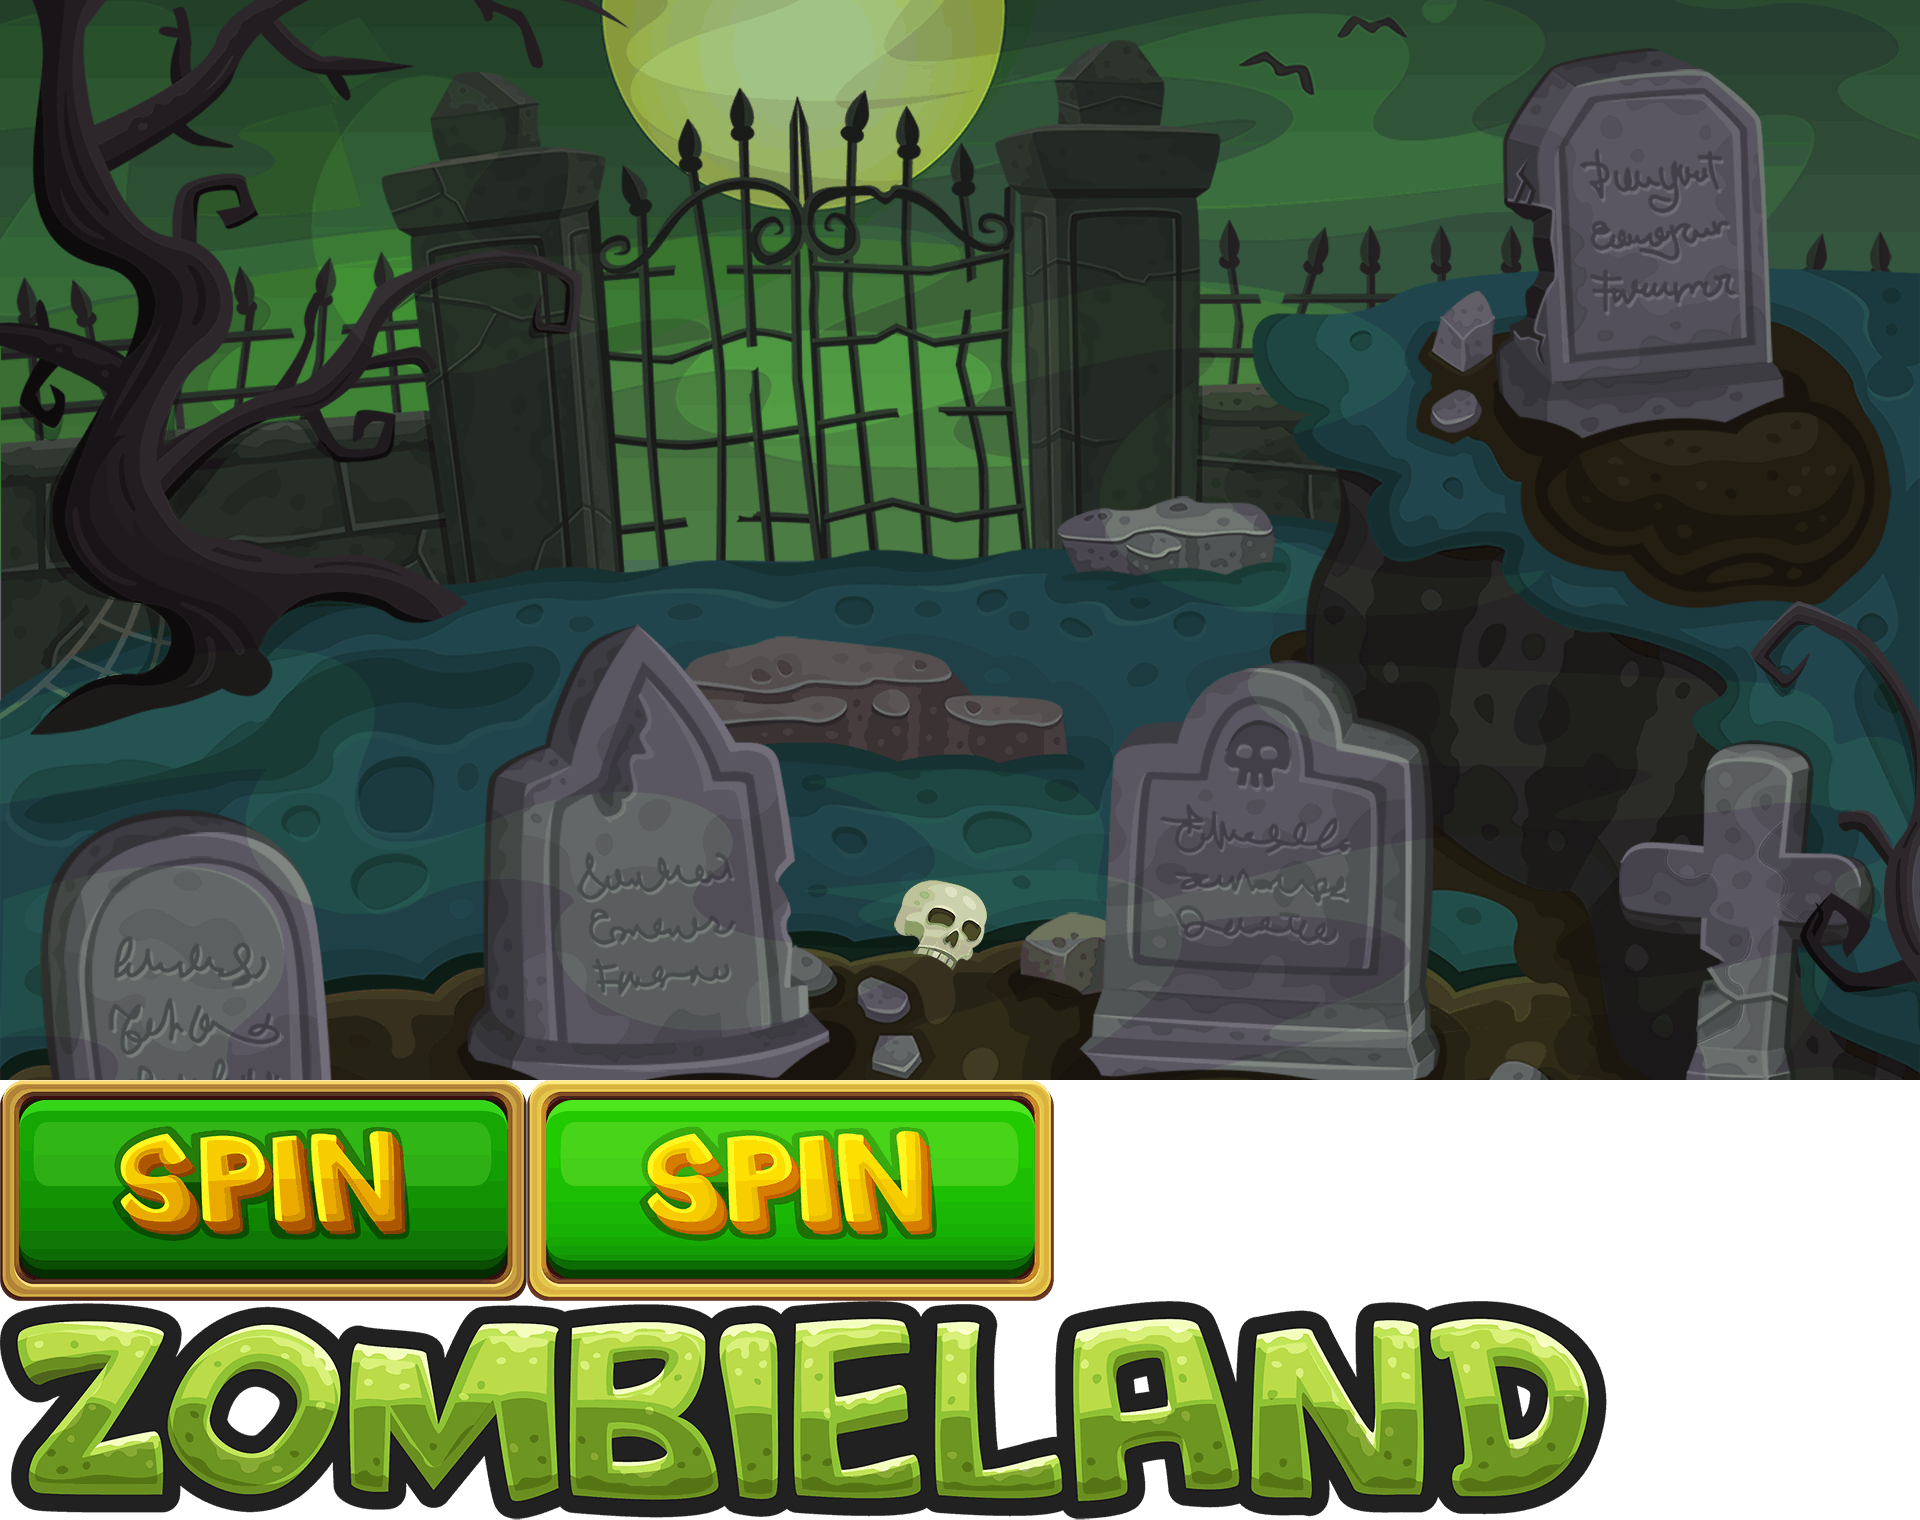
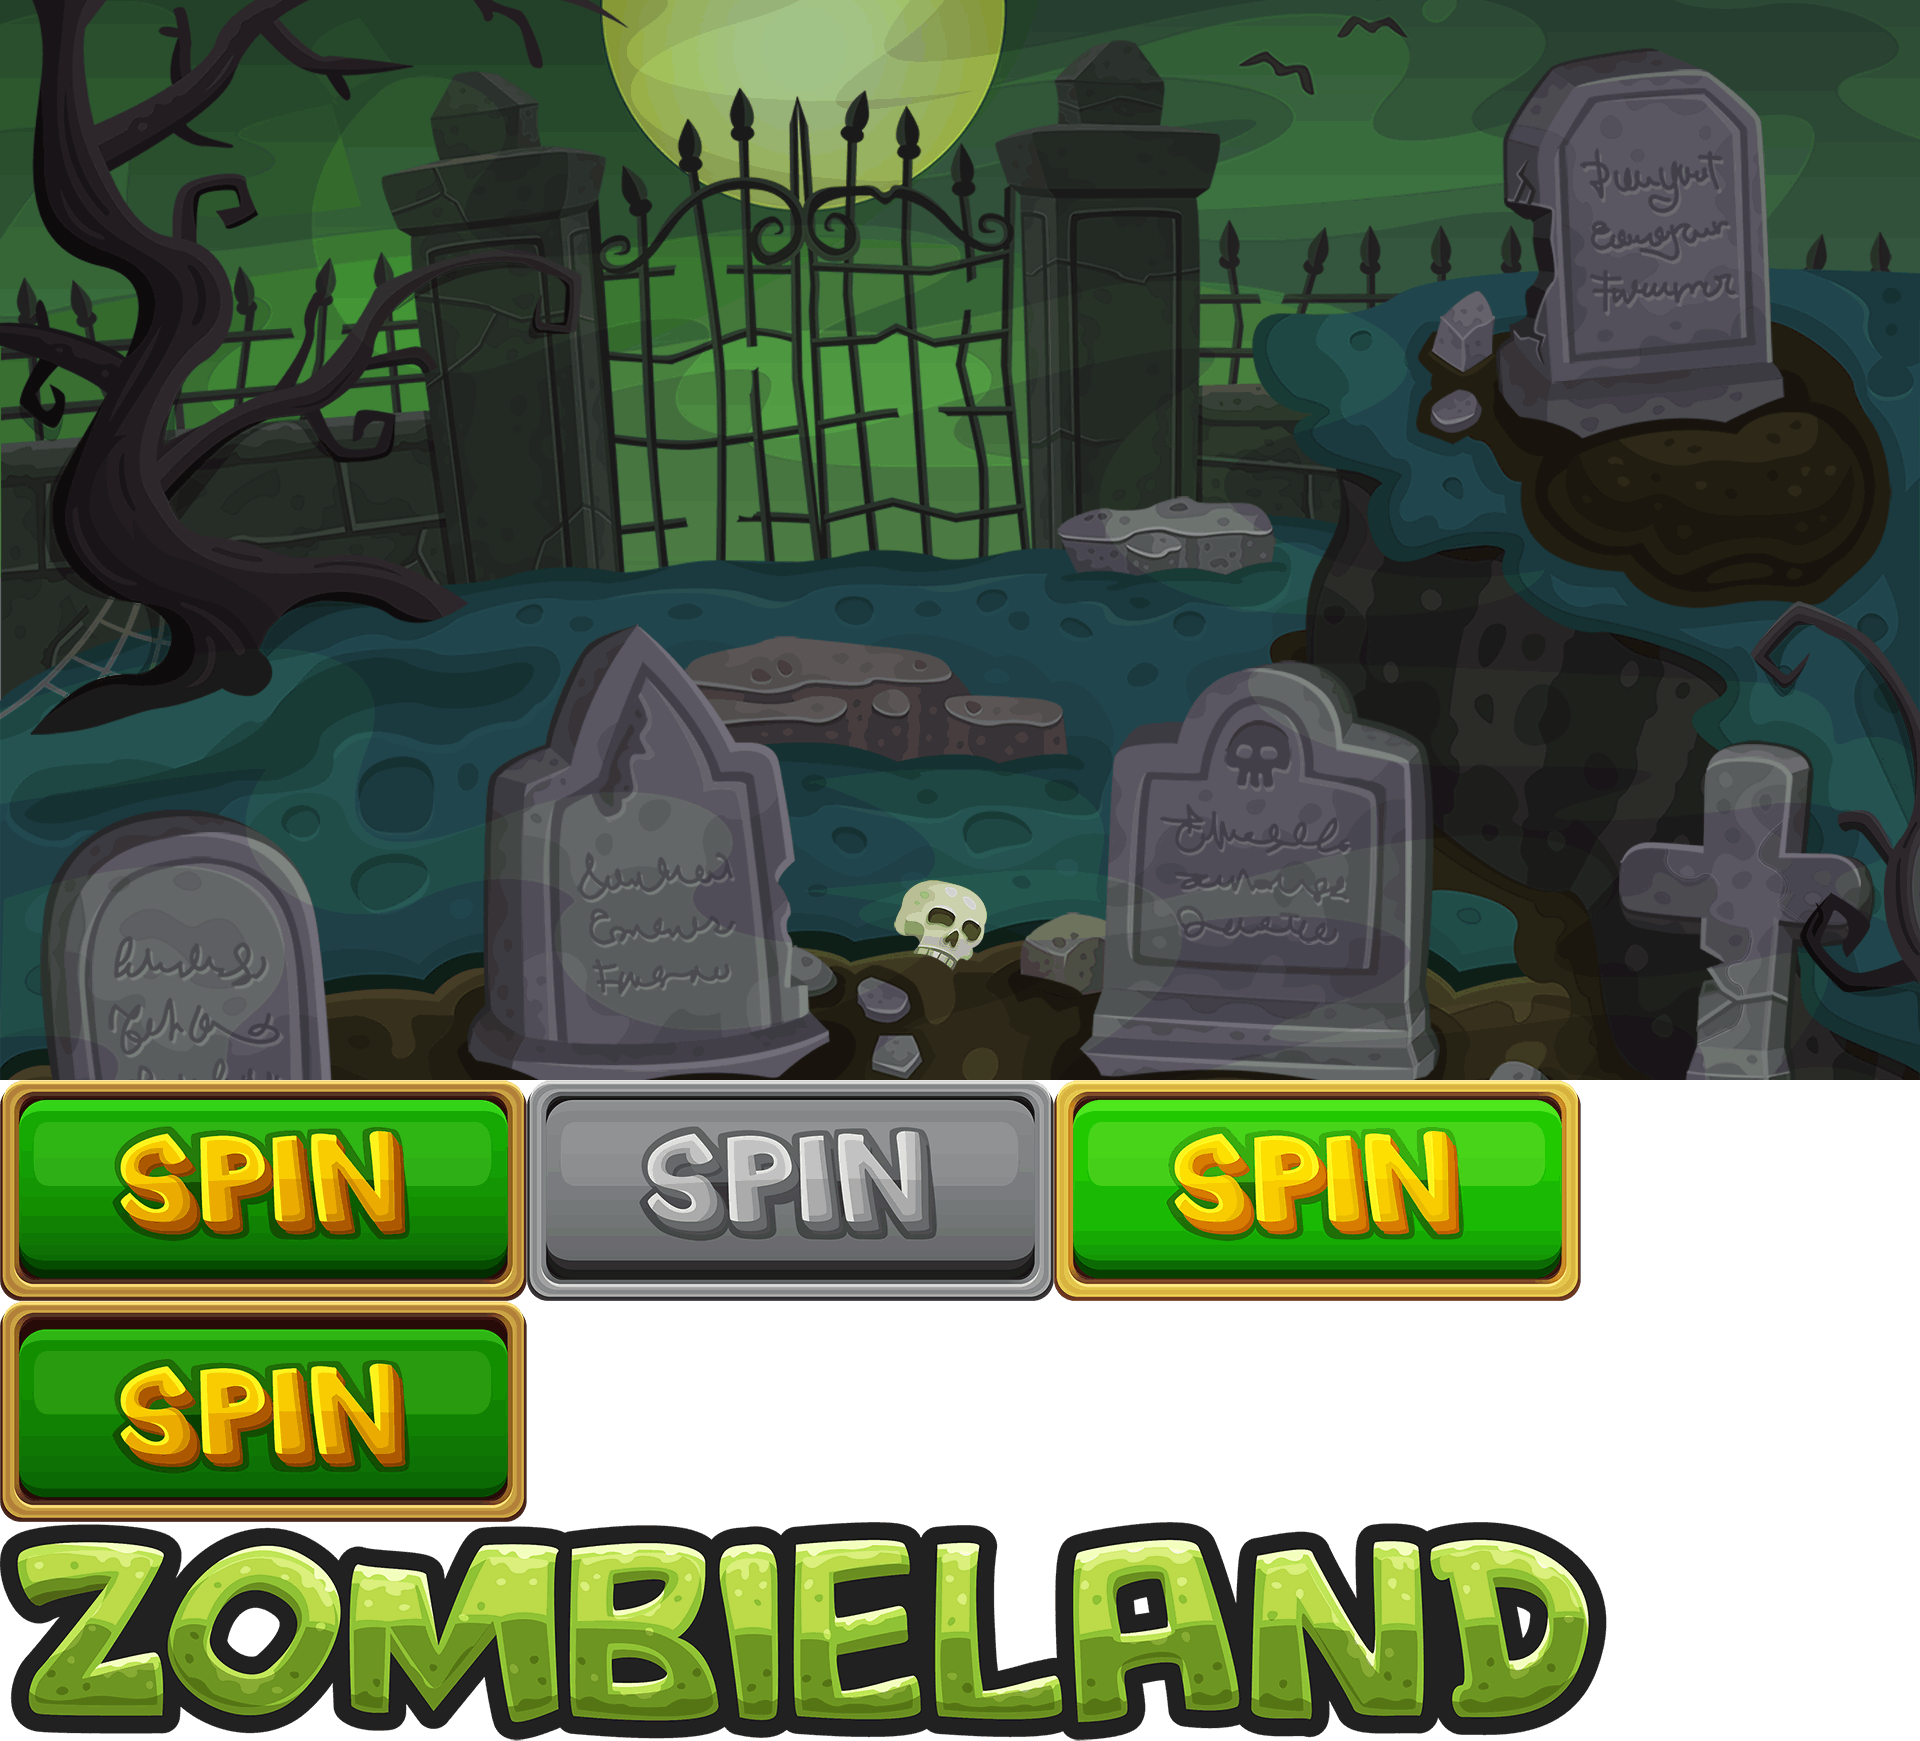
feat(spinButton): add spin button

diff --git a/src/components/ui/Button.ts b/src/components/ui/Button.ts
@@ -1,0 +1,49 @@
+import { Sprite, Texture } from "pixi.js"
+import { Assets } from "../../enums/Assets";
+
+export default class Button extends Sprite {
+    private activness = false;
+
+    constructor() {
+        super(Texture.from(Assets.SPIN_BUTTON_DEFAULT))
+        this.active = true
+        this
+            .on('pointerdown', () => this.texture = Texture.from(Assets.SPIN_BUTTON_PRESSED))
+            .on('pointerup', () => this.texture = Texture.from(Assets.SPIN_BUTTON_HOVER))
+            .on('pointerupoutside', () => this.texture = Texture.from(Assets.SPIN_BUTTON_DEFAULT))
+            .on('pointerover', () => this.texture = Texture.from(Assets.SPIN_BUTTON_HOVER))
+            .on('pointerout', () => this.texture = Texture.from(Assets.SPIN_BUTTON_DEFAULT))
+    }
+
+    public onPress(event: () => void) {
+        this.on('pointerdown', event)
+    }
+
+    public set active(active: boolean) {
+        if (this.activness === active) { return; }
+        this.activness = active
+        this.interactive = active
+        this.buttonMode = active
+        this.texture = Texture.from(active ? Assets.SPIN_BUTTON_DEFAULT : Assets.SPIN_BUTTON_DISABLED)
+    }
+
+    public get active() {
+        return this.activness
+    }
+
+    public resize(width: number, height: number) {
+        this.height = height / 10
+        this.width = this.texture.width * this.height / this.texture.height
+
+        this.position.x = width / 2
+        this.position.y = height / 12
+
+        if (this.width > width * .95) {
+            this.width = width * .95
+            this.height = this.texture.height * this.width / this.texture.width * .95
+
+            this.position.x = width / 2
+            this.position.y = height / 6
+        }
+    }
+}

diff --git a/src/components/Reels.ts b/src/components/Reels.ts
@@ -3,11 +3,13 @@ import { IReelsConfig } from "../interfaces/IConfig";
 import Slot from './Slot'
 import { SlotTypes } from '../enums/SlotTypes';
 import { Assets } from "../enums/Assets";
+import Button from './ui/Button';
 
 export default class Reels extends Sprite {
-    private reels: Container;
-    private realsMask: Graphics;
-    private config: IReelsConfig;
+    private reels: Container
+    private realsMask: Graphics
+    private config: IReelsConfig
+    private spinButton: Button
 
     constructor(config: IReelsConfig) {
         super(Texture.from(Assets.REELS))
@@ -15,6 +17,20 @@ export default class Reels extends Sprite {
         this.reels = this.createReels()
         this.reels.mask = this.createMask()
         this.addChild(this.reels)
+        this.addSpinButton()
+    }
+
+    private addSpinButton() {
+        this.spinButton = new Button()
+        this.spinButton.anchor.set(1, 1)
+        this.spinButton.x = this.width * .985
+        this.spinButton.y = this.height * .97
+        this.spinButton.onPress(() => this.spin())
+        this.addChild(this.spinButton)
+    }
+
+    public spin() {
+        console.log(`spin`);
     }
 
     private createMask(): Graphics {
@@ -39,6 +55,7 @@ export default class Reels extends Sprite {
         reels.y = maskSize.offsetY
         console.log();
 
+        // TODO: absract reels
         for (let x = 0; x < this.config.reelsCount; x++) {
             const reel = new Container()
             const slotWidth = this.texture.width * maskSize.xPersentage / this.config.reelsCount

diff --git a/src/Game.ts b/src/Game.ts
@@ -1,8 +1,8 @@
 import { Application } from "pixi.js"
 import * as PIXI from "pixi.js"
-import Background from './components/Background'
+import Background from './components/ui/Background'
+import Logo from "./components/ui/Logo";
 import Reels from './components/Reels'
-import Logo from "./components/Logo";
 import IConfig from "./interfaces/IConfig";
 import { Assets } from './enums/Assets';
 
@@ -37,8 +37,8 @@ class Game extends Application {
     private renderElements() {
         this.stage.addChild(
             new Background(Assets.BG),
-            new Reels(this.config.reels),
             new Logo(Assets.LOGO),
+            new Reels(this.config.reels)
         )
         this.onResize()
     }

diff --git a/src/enums/Assets.ts b/src/enums/Assets.ts
@@ -2,10 +2,8 @@ export enum Assets {
     BG = "ui/bg",
     LOGO = "ui/logo",
     REELS = "ui/reels",
-    BUTTONS = "ui/buttons",
-
-    SPIN = "spin",
-
-    DEFAULT = "default",
-    HOVER = "hover"
+    SPIN_BUTTON_DEFAULT = "ui/buttons/spin/default",
+    SPIN_BUTTON_HOVER = "ui/buttons/spin/hover",
+    SPIN_BUTTON_PRESSED = "ui/buttons/spin/pressed",
+    SPIN_BUTTON_DISABLED = "ui/buttons/spin/disabled",
 }

diff --git a/src/components/ui/Logo.ts b/src/components/ui/Logo.ts
@@ -1,8 +1,8 @@
 import { Sprite, Texture } from "pixi.js"
 
 export default class Logo extends Sprite {
-    constructor(bg: string) {
-        super(Texture.from(bg))
+    constructor(image: string) {
+        super(Texture.from(image))
         this.anchor.set(.5)
     }
 
